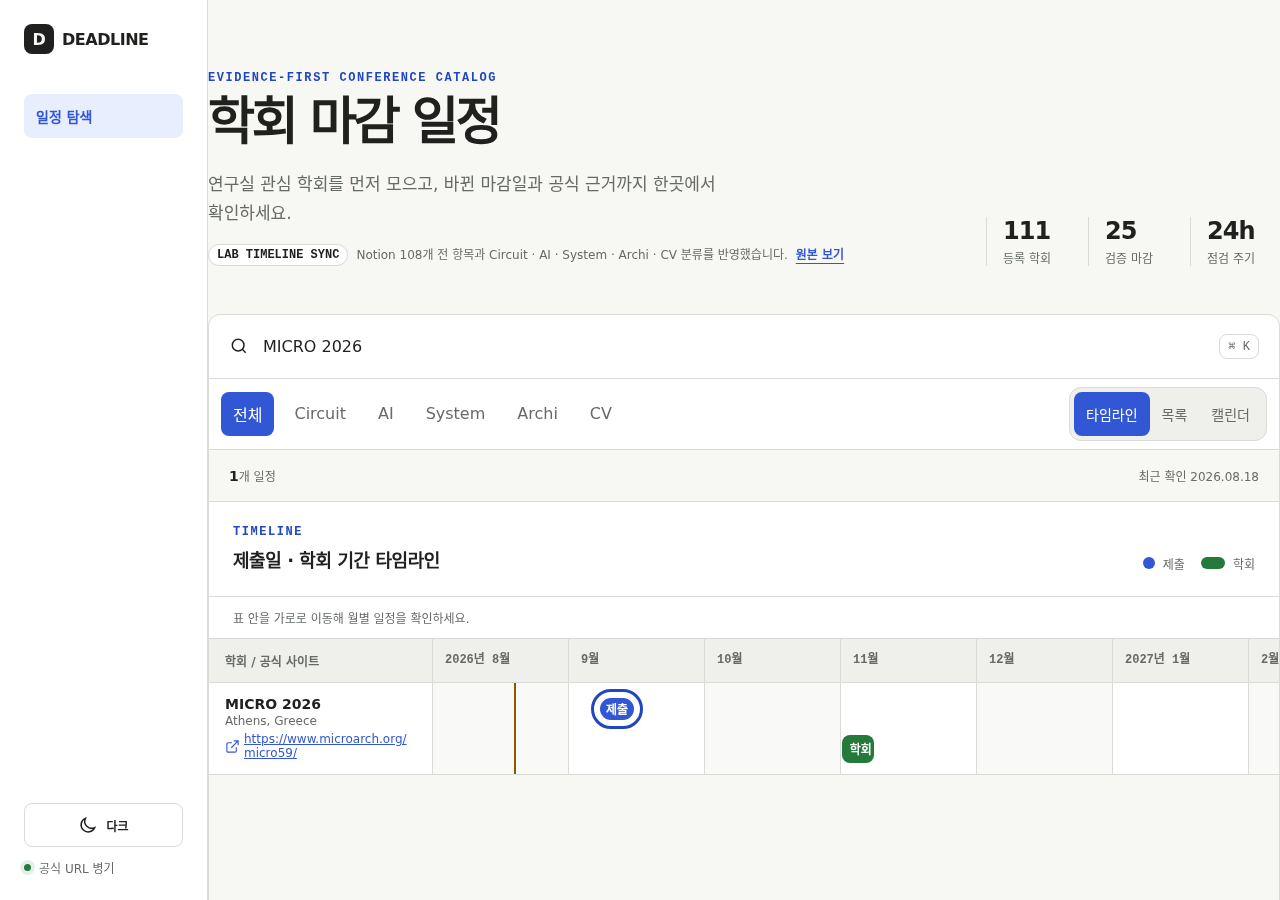
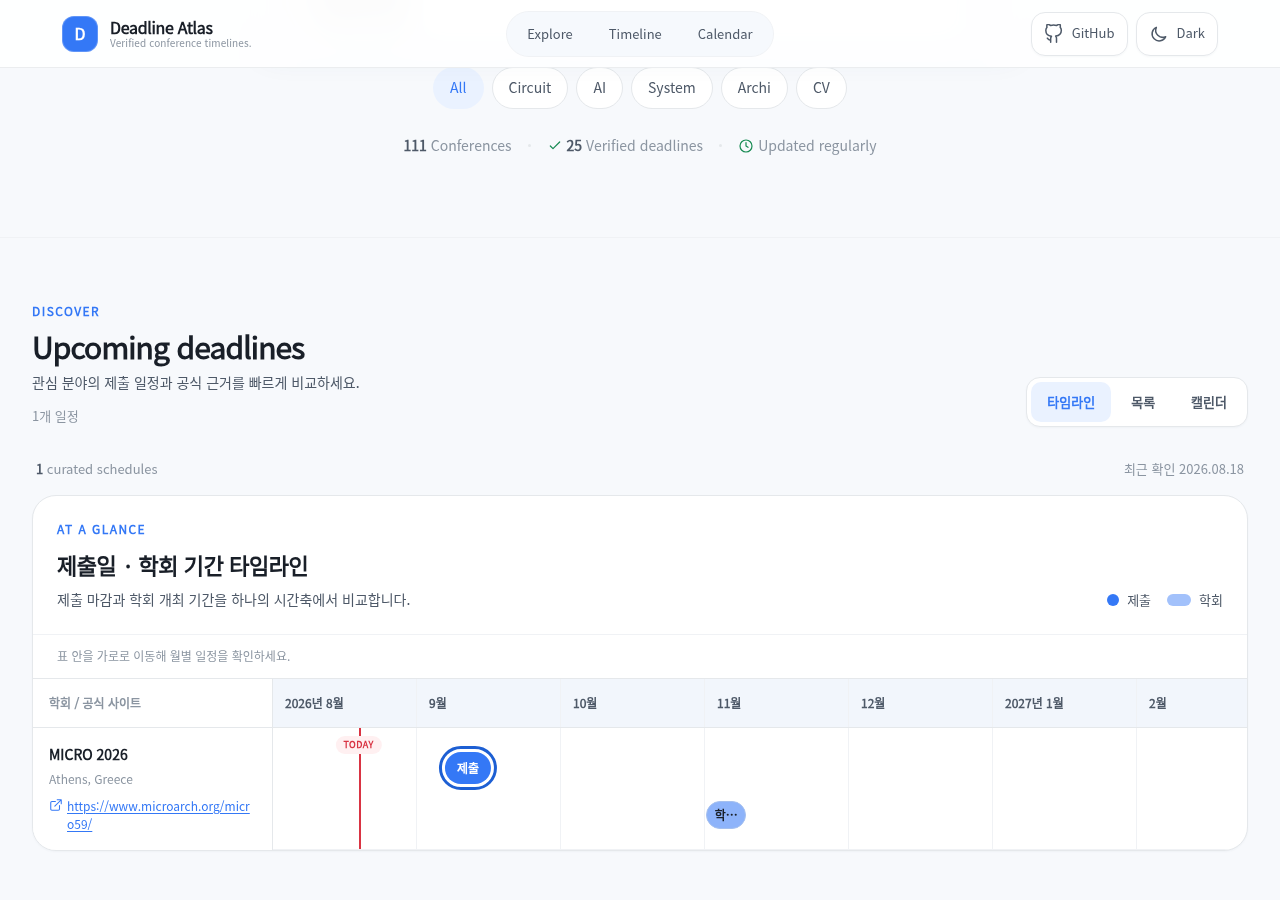
test(qa): record Deadline Atlas redesign evidence

diff --git a/.omo/evidence/deadline-atlas-redesign-clone-fidelity.md b/.omo/evidence/deadline-atlas-redesign-clone-fidelity.md
@@ -1,0 +1,44 @@
+# Deadline Atlas clone / design-system fidelity review
+
+**Recommendation: APPROVE**
+
+## Scope and method
+
+Re-reviewed the corrected working-tree diff and `DESIGN.md` as the target contract. Inspected the current component tree and CSS token layer, then visually inspected the fresh desktop, tablet, and mobile default, dark, calendar, timeline, selected-timeline, empty, evidence, history, and focus/full-list states. This is a redesign without a separate pixel-reference image; fidelity is therefore assessed against the documented design system and its responsive contracts.
+
+## Evidence inspected
+
+- Design contract: `DESIGN.md` (especially lines 95-100, 130-148, 152-210, and 250-273).
+- Live UI implementation: `apps/web/src/App.tsx`, `apps/web/src/components/{PageChrome,CatalogControls,EditionResults,EditionCard,EvidencePanel,TimelineView,CalendarView,Primitives}.tsx`, and `apps/web/src/styles/{tokens,app,responsive}.css`.
+- Browser captures: `.omo/evidence/browser/{desktop-1280,tablet-768,mobile-375}{,-dark,-focus,-calendar,-timeline,-timeline-focused,-empty}.png`, plus `mobile-375-history.png`.
+- Browser test record: `.omo/evidence/browser/deadline-atlas-redesign-playwright.json` (three breakpoint tests passed at 2026-08-19T06:49:34Z). It explicitly exercises the desktop/tablet Timeline and Calendar links (`apps/web/e2e/catalog.spec.ts:13-21`).
+- Integrity checks: `git diff --check` returned clean; the source scan found no raster/image element or asset URL standing in for the UI. The only `background-image` is the tokenised hero grid in `apps/web/src/styles/app.css:252`.
+
+## What is substantively correct
+
+- The UI is a real, extensible DOM/component tree. Search/filter controls, semantic view tabs, cards, calendar, timeline, evidence, history, and drawer are rendered by reusable React components; no screenshot or raster background replaces the interface.
+- The color, elevation, motion, spacing, and primary type ramp are concentrated in `apps/web/src/styles/tokens.css:1-101` and match the bright, evidence-first system in `DESIGN.md`. The supplied captures show a coherent light/dark surface, bounded timeline overflow, mobile agenda fallback, and a full-width compact evidence sheet.
+- Evidence data remains product-facing rather than decorative: the visible panel retains official source, timezone/date context, verification status, evidence observations, and history (`EvidencePanel.tsx:50-207`).
+- Accessible cues are present in the inspected source: real buttons/links, tab roles and arrow navigation (`Primitives.tsx:45-114`), skip link, dialog focus containment/Escape/return (`App.tsx:79-120`), status text in addition to color, and `aria-*` labels.
+
+## Findings
+
+### CRITICAL
+
+None.
+
+### HIGH
+
+None. The regenerated screenshots and Playwright JSON (15:49:41-44 local time) postdate the latest relevant UI source change (15:49:18). The central navigation now selects the corresponding product view through `App.tsx:160-166` and `PageChrome.tsx:110-117`, with an exact-link E2E assertion.
+
+### MEDIUM
+
+None. `word-break: keep-all` is now applied to the hero support copy and timeline intro (`apps/web/src/styles/app.css:298-307`, `1268-1274`). The fresh 375px dark and timeline captures show intact `확인하세요`, `않습니다.`, and `비교합니다.` with no syllable split or orphaned ending.
+
+### LOW
+
+1. **[code] The design system is predominantly token-driven, but not yet mechanically complete.** A few visual type/geometry values bypass declared tokens, for example `apps/web/src/styles/app.css:162` (`0.625rem` type), `1464` (`0.5625rem` type), `1610` (`0.625rem` radius), and `apps/web/src/styles/responsive.css:146` (mobile hero clamp) / `166` (input radius). This is not visually incoherent or a release blocker, but it weakens the stated "every color, font size, spacing value" traceability in `DESIGN.md:207-210` and should be normalised in a follow-up.
+
+## Blockers before approval
+
+None.
